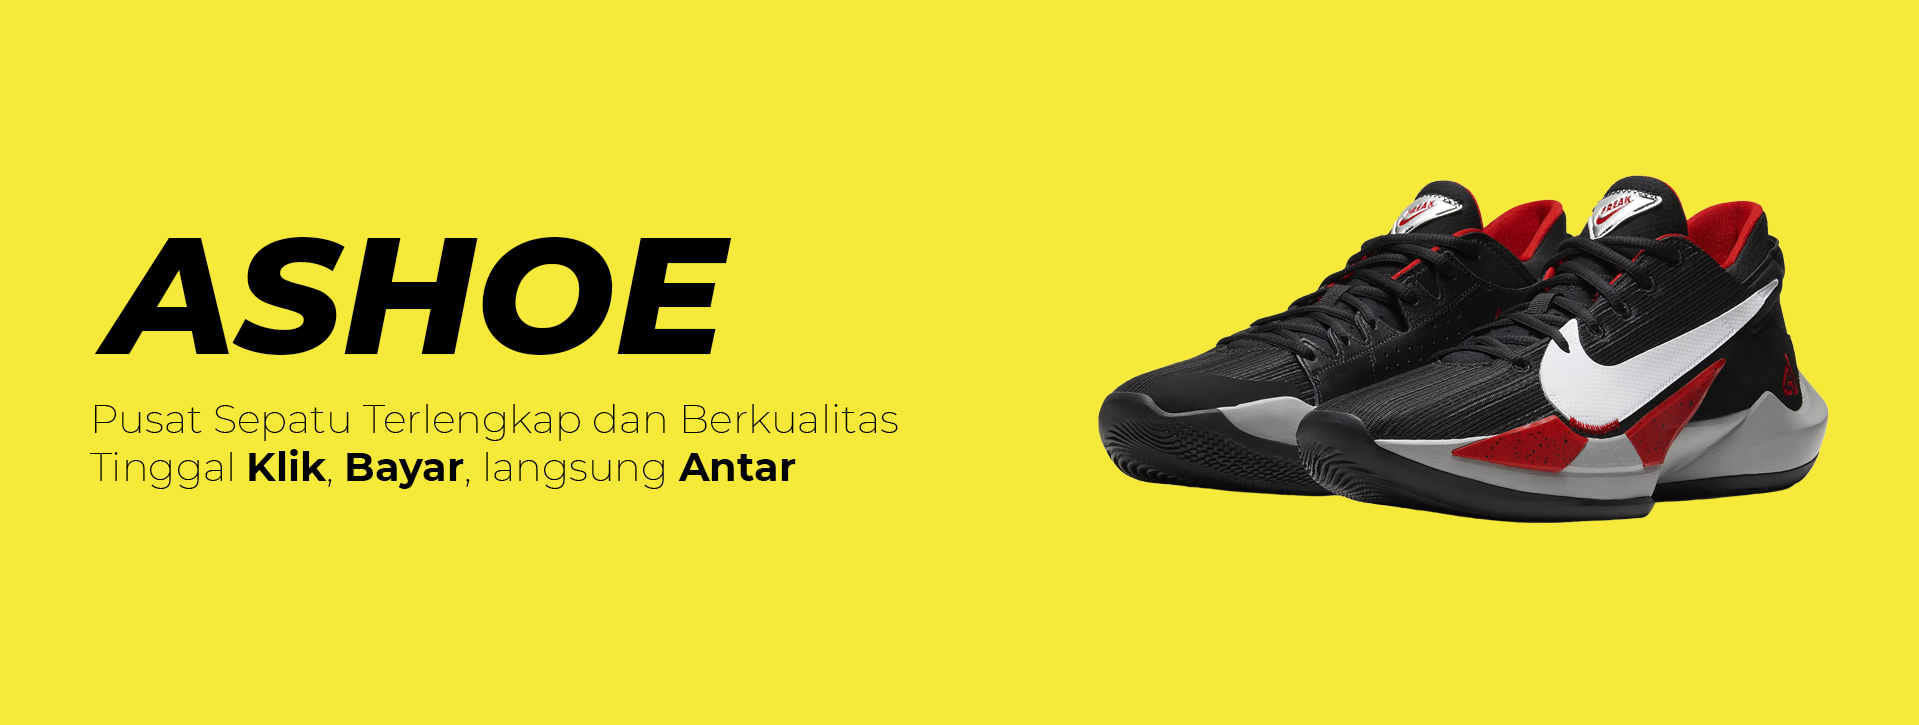
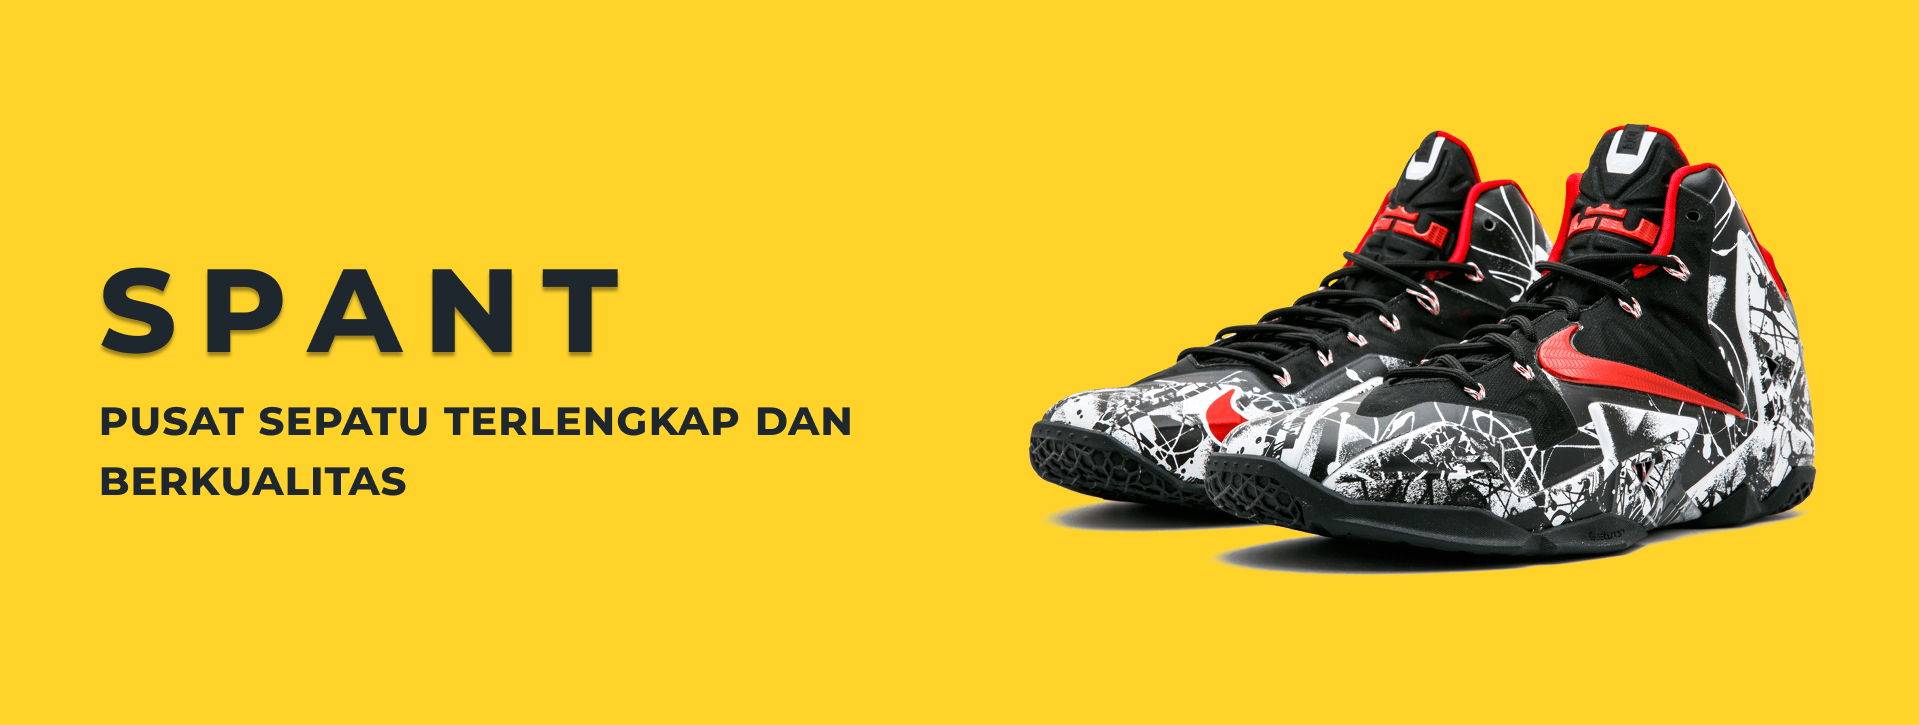
Change App Name

Changed region(s): [[0.5227, 0.1517, 0.9531, 0.8193], [0.0307, 0.3034, 0.3997, 0.5159], [0.0307, 0.5462, 0.4612, 0.6979]]

diff --git a/public/js/app.js b/public/js/app.js
@@ -37363,8 +37363,8 @@ window.axios.defaults.headers.common['X-Requested-With'] = 'XMLHttpRequest';
 /*! no static exports found */
 /***/ (function(module, exports, __webpack_require__) {
 
-__webpack_require__(/*! D:\xampp\htdocs\Ashoe\resources\js\app.js */"./resources/js/app.js");
-module.exports = __webpack_require__(/*! D:\xampp\htdocs\Ashoe\resources\sass\app.scss */"./resources/sass/app.scss");
+__webpack_require__(/*! D:\xampp\htdocs\Toko SPANT\resources\js\app.js */"./resources/js/app.js");
+module.exports = __webpack_require__(/*! D:\xampp\htdocs\Toko SPANT\resources\sass\app.scss */"./resources/sass/app.scss");
 
 
 /***/ })
